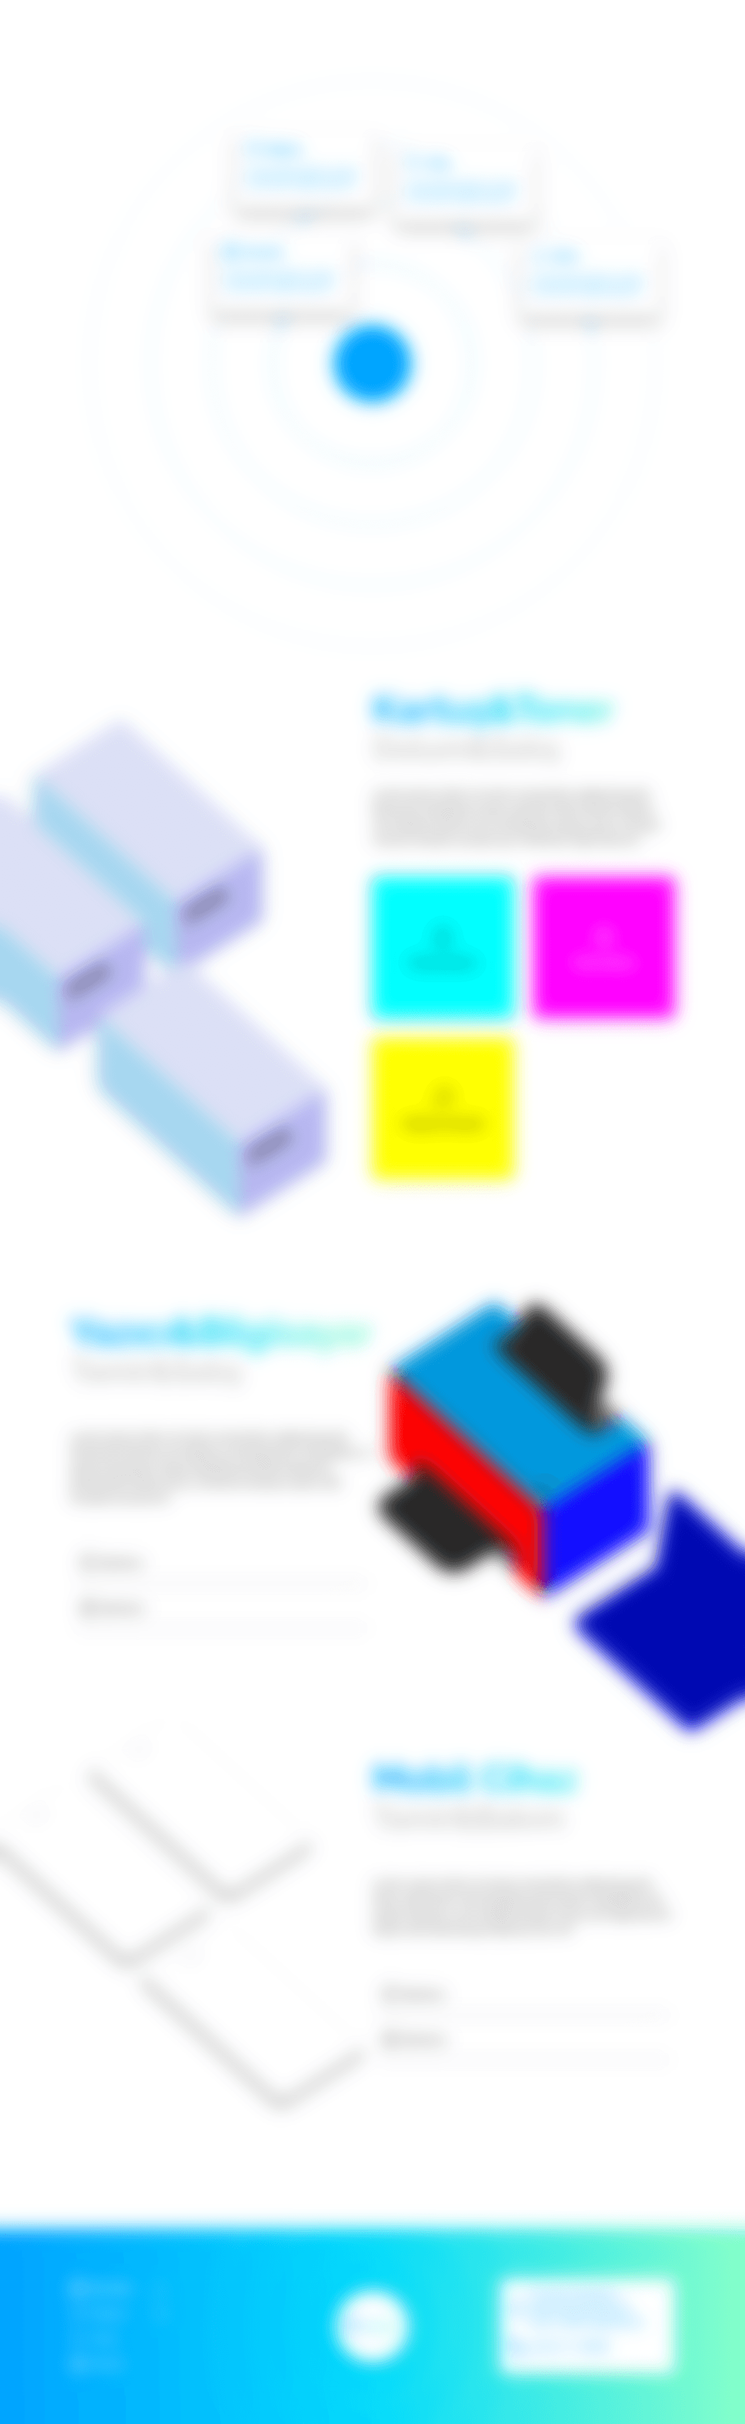
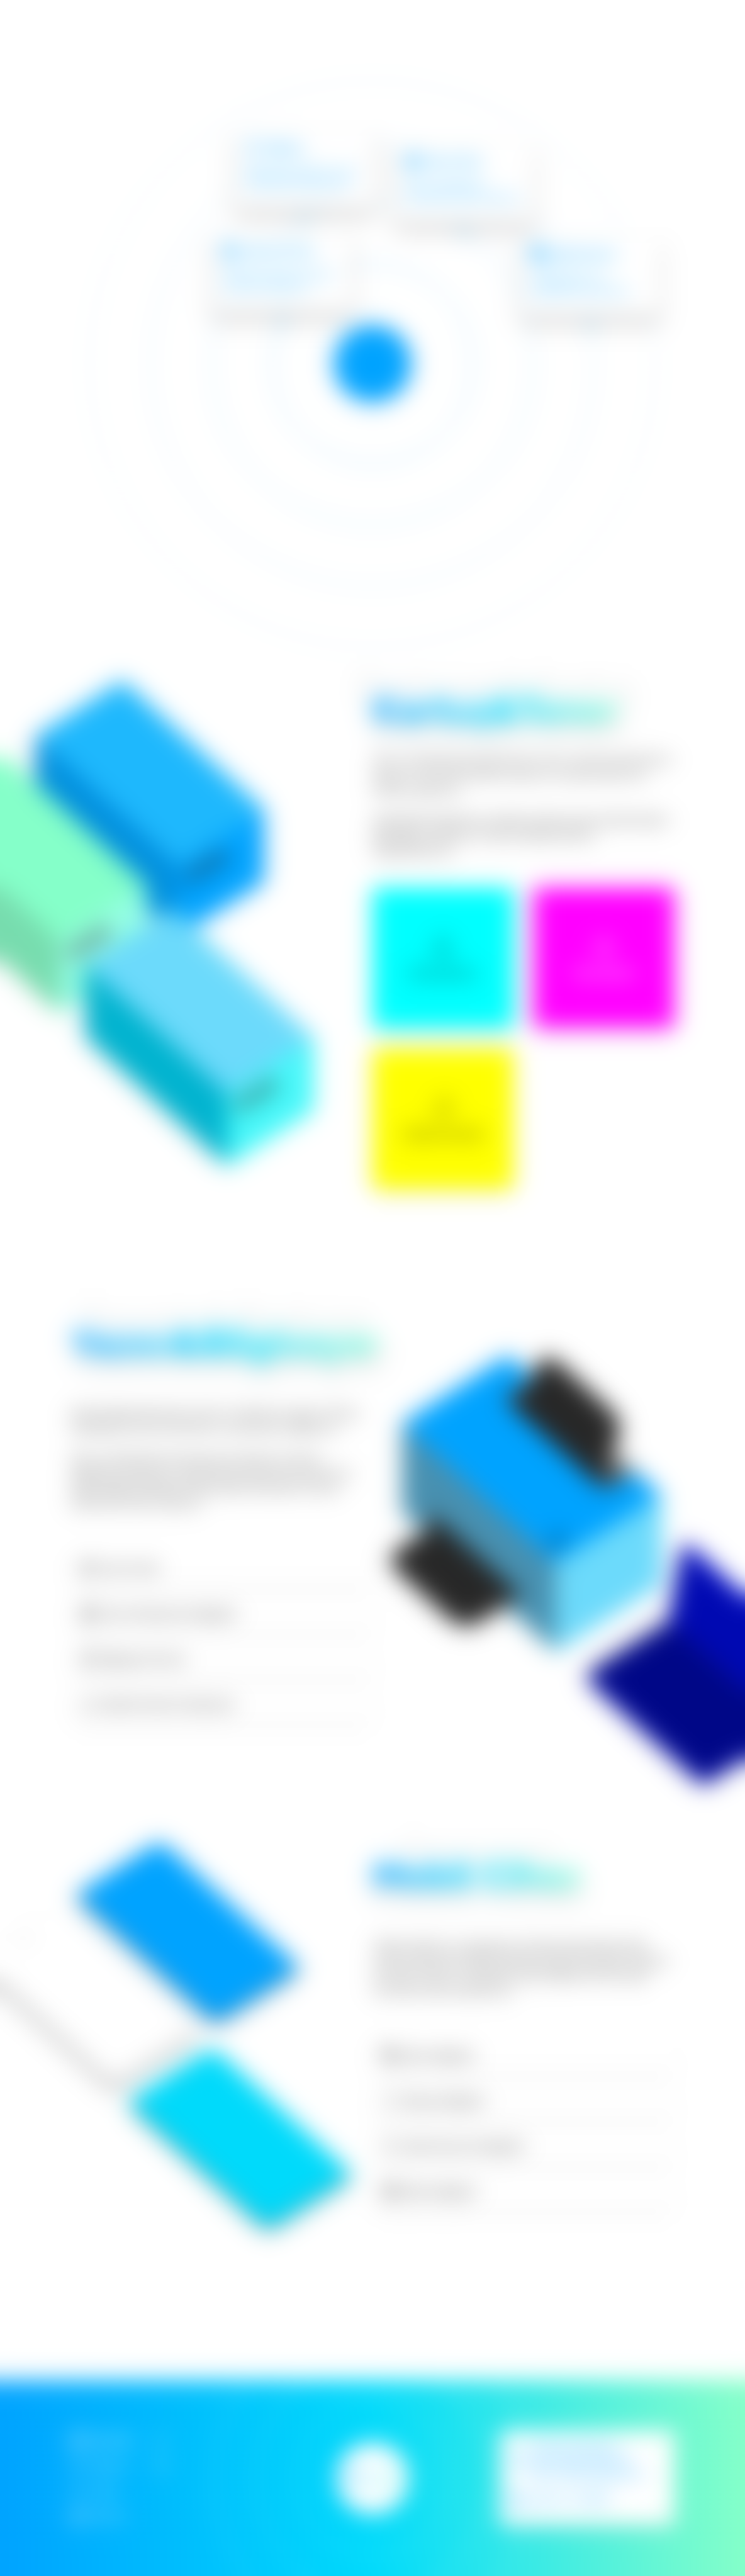
Completed.

diff --git a/src/responsive.scss b/src/responsive.scss
@@ -99,7 +99,7 @@
         .printek-topbar {
             background:
                 url('assets/yosemite/yosemite-1199.png')
-                #fff no-repeat top center / cover;
+                #fff no-repeat top center / 1184px;
         }
 
         .printek-topbar .container {
@@ -155,12 +155,12 @@
     /* Large Devices, Wide Screens */
     @media only screen and (min-width : 1200px) {
 
-        --diameter   : calc(var(--radius) *2);
+        // --diameter   : calc(var(--radius) *2);
 
         .printek-topbar {
             background:
-                url('assets/yosemite/yosemite-1356.png')
-                #fff no-repeat top center / cover;
+                url('assets/yosemite/yosemite-1365.png')
+                #fff no-repeat top center / 1350px;
         }
 
         .printek-section--text .underlay {
@@ -176,8 +176,8 @@
 
         .printek-topbar {
             background:
-                url('assets/yosemite/yosemite-1680.png')
-                #fff no-repeat top center / cover;
+                url('assets/yosemite/yosemite-rest.png')
+                #fff no-repeat top center / 1685px;
         }
     }
 }

diff --git a/src/app/end-user/Modules/services/Components/cartridge/cartridge.component.scss b/src/app/end-user/Modules/services/Components/cartridge/cartridge.component.scss
@@ -59,7 +59,7 @@ h1::before { content: 'Kartuş&Toner' }
     max-width: 488px;
     // padding: 220px 50px;
     // align-items: baseline;
-    margin-top: -100px; // mobile-fix
+    margin-top: -180px; // mobile-fix
     padding: 220px 70px; // mobile-fix
     transform: rotateX(40deg) rotateZ(-40deg);
     transform-style: preserve-3d;

diff --git a/src/app/end-user/Modules/services/Components/printek-universe/printek-universe.responsive.scss b/src/app/end-user/Modules/services/Components/printek-universe/printek-universe.responsive.scss
@@ -65,7 +65,7 @@
 
     @media only screen and (min-width : 1200px) {
 
-        --barycenter : 250px;
+        // --barycenter : 250px;
         --times      : 14;
     }
 

diff --git a/src/styles.scss b/src/styles.scss
@@ -30,6 +30,8 @@
 
 body {
     margin: 0;
+    font-family: roboto;
+    font-weight: 400;
 }
 
 .container {
